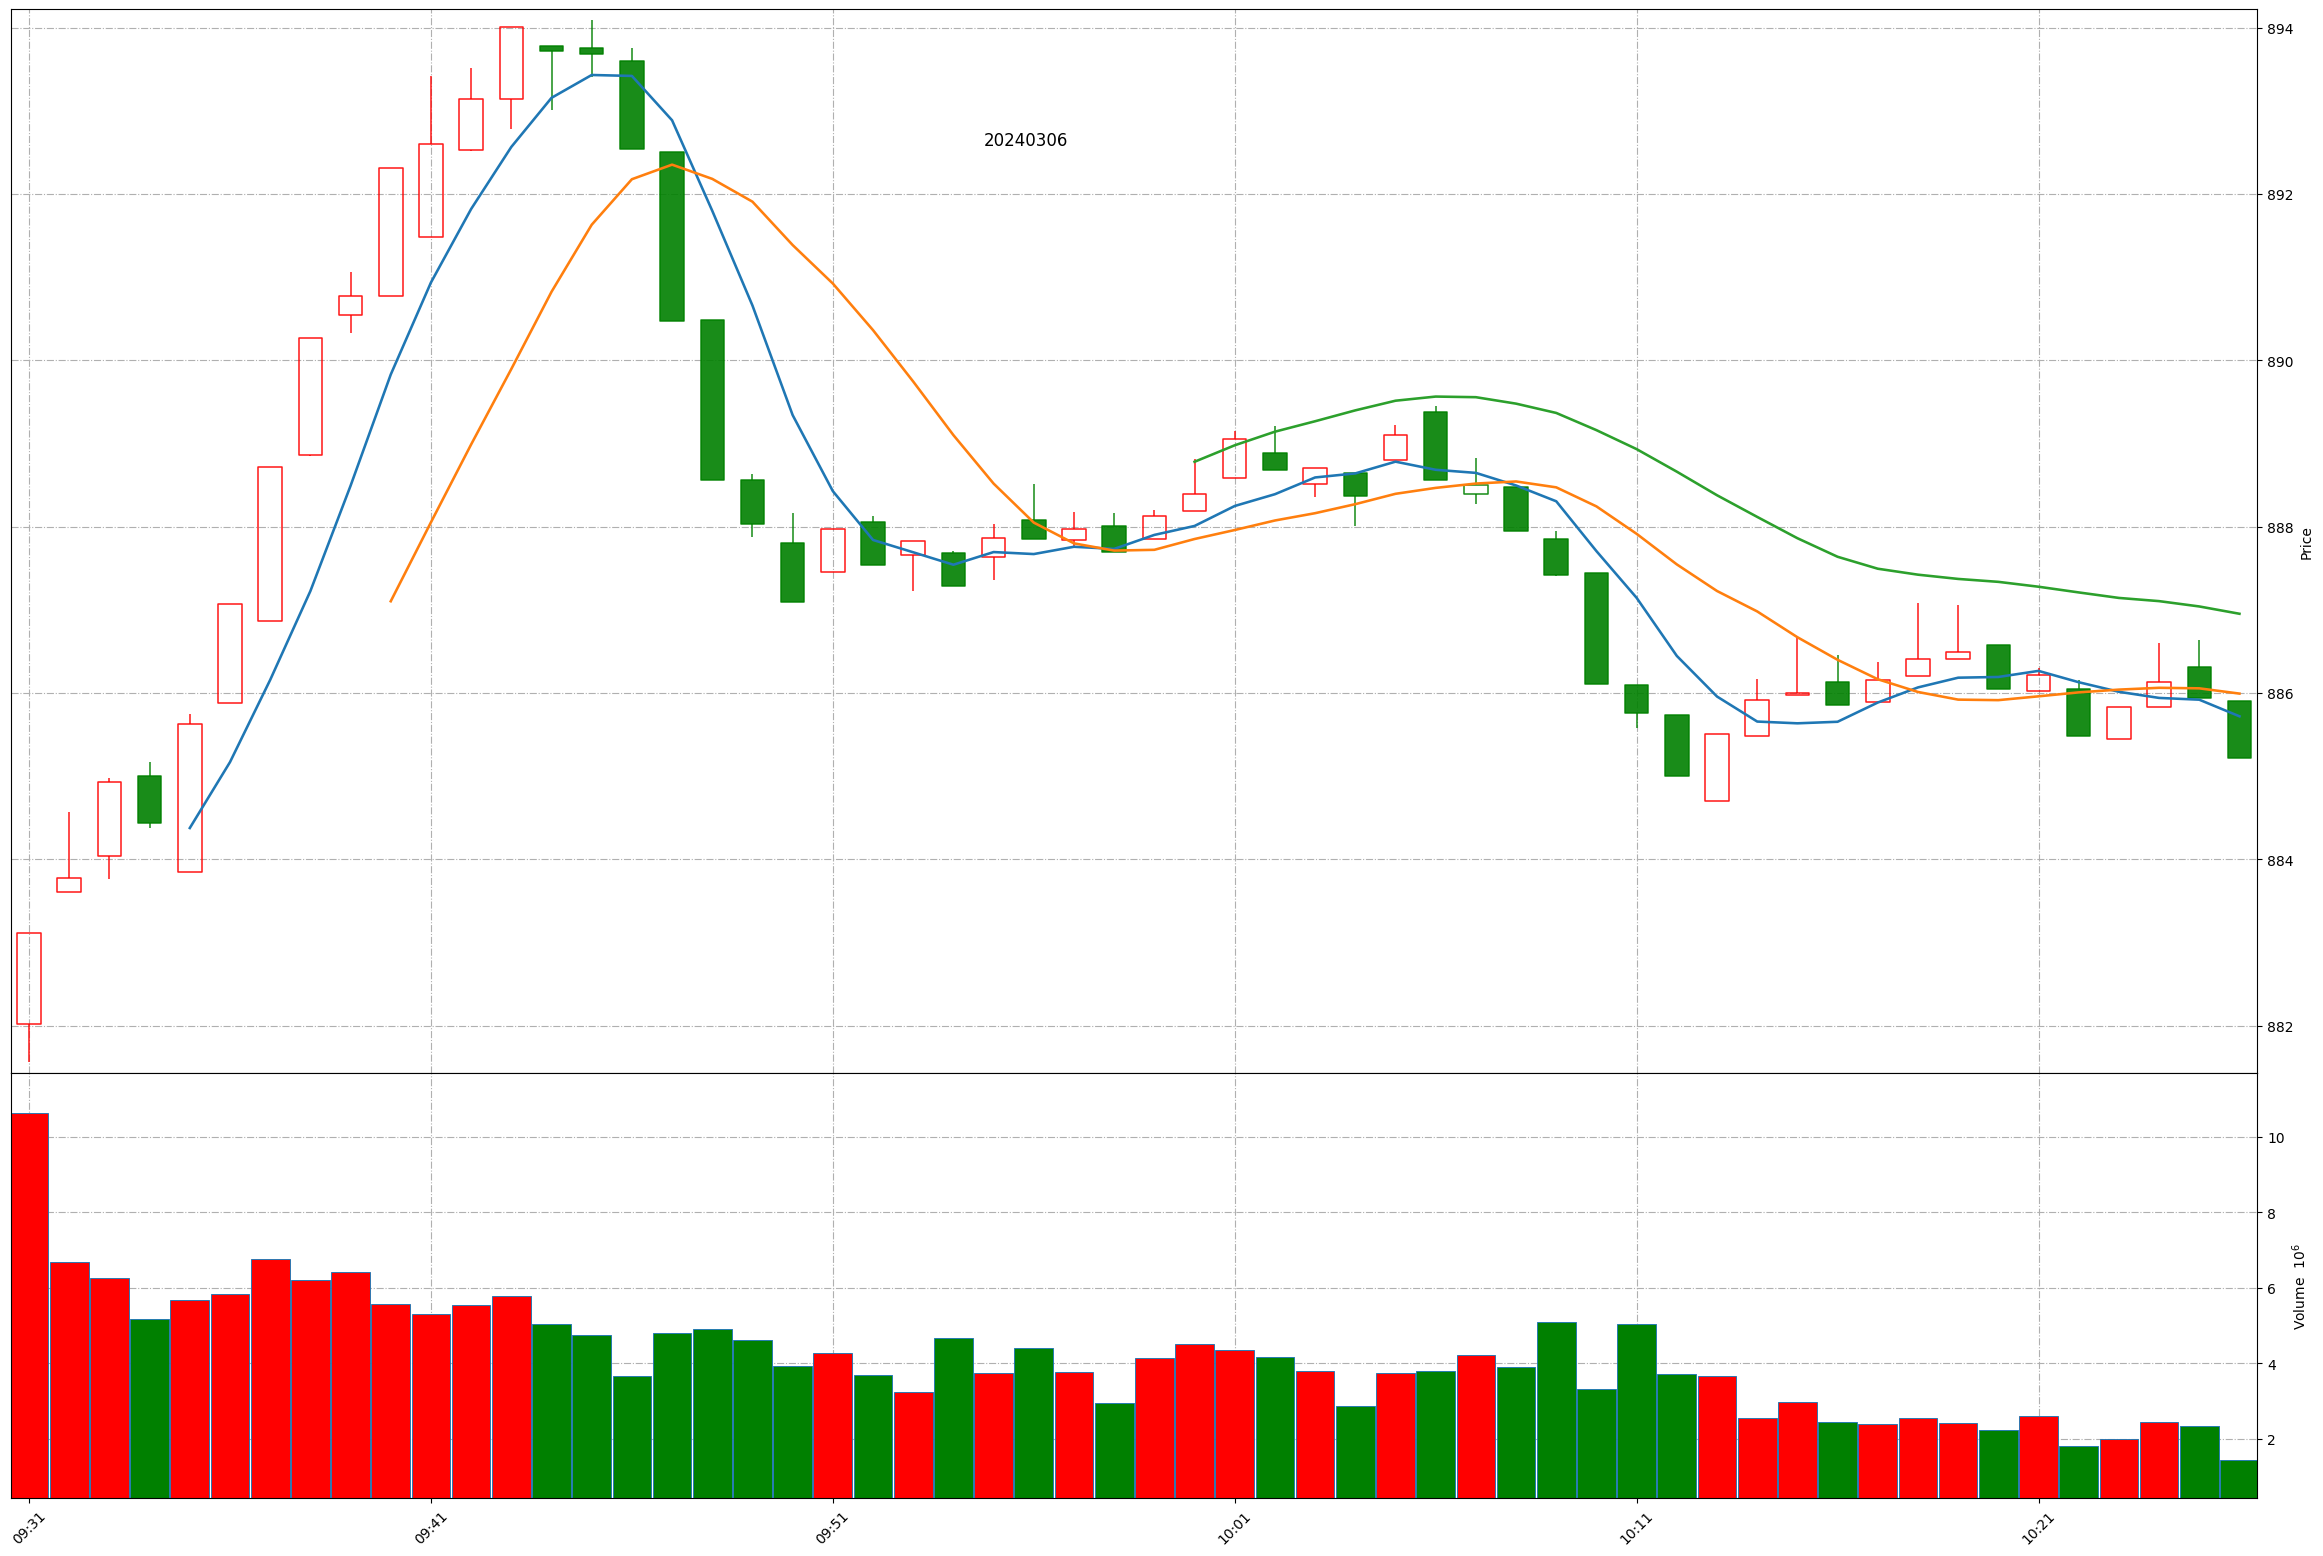
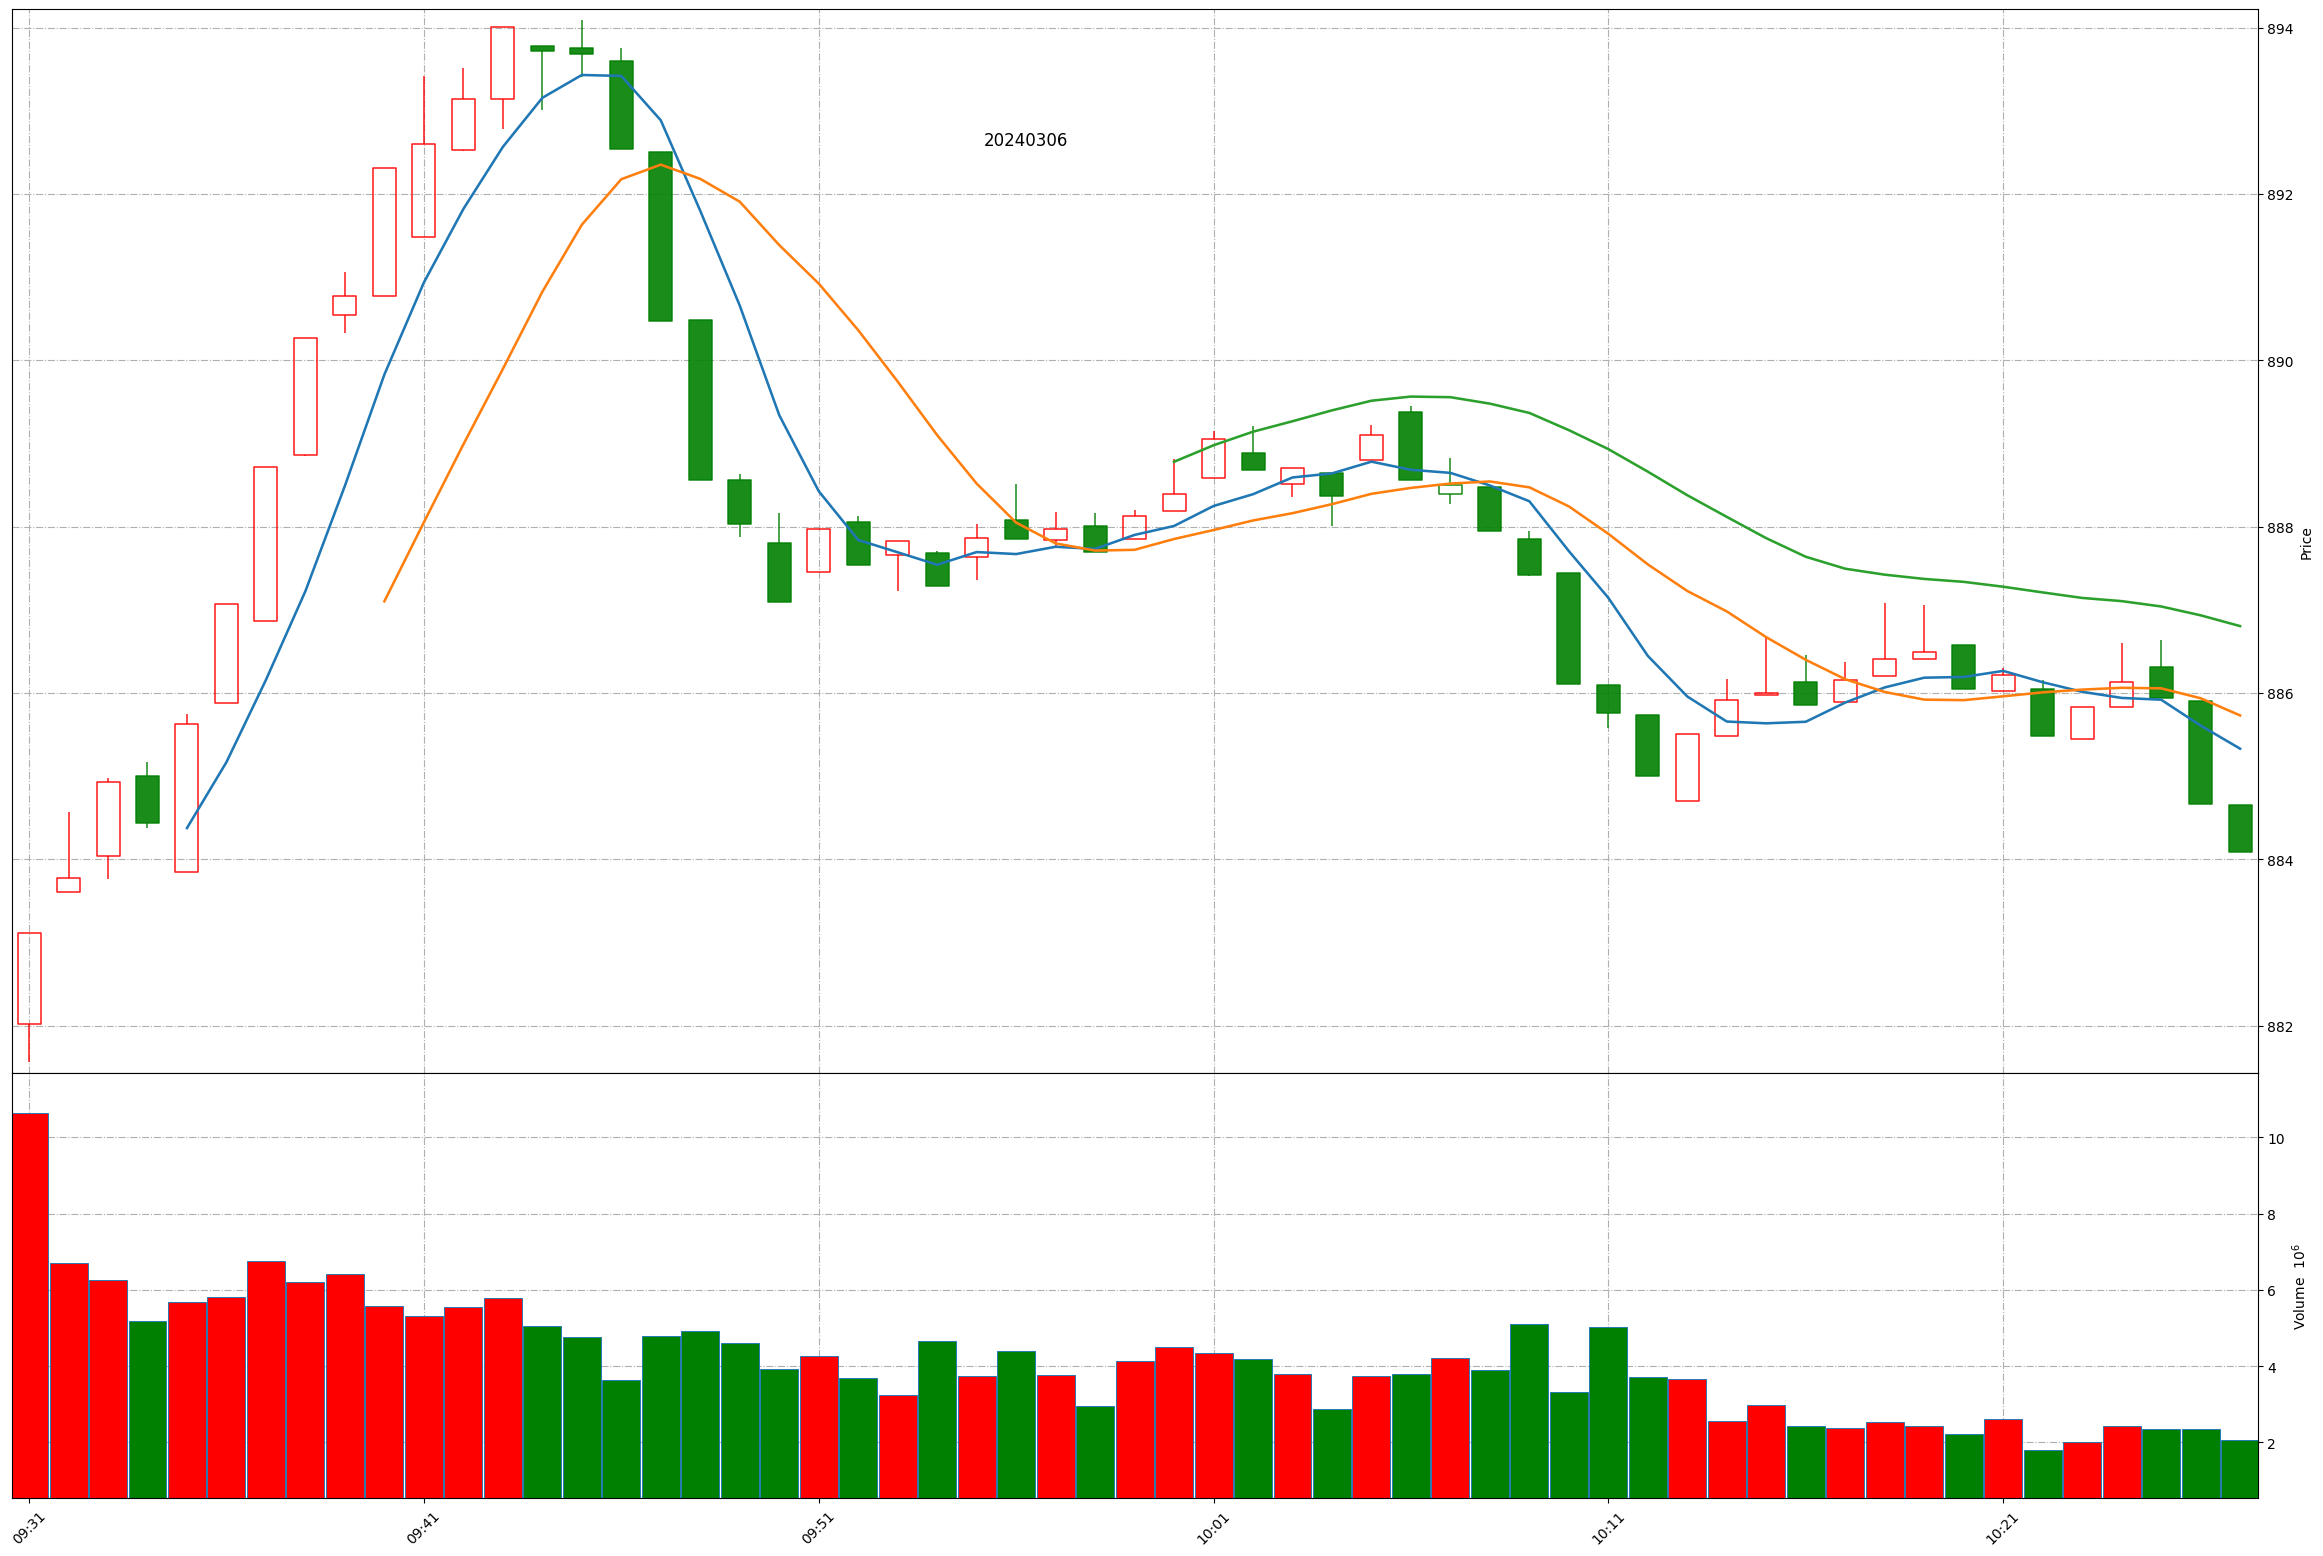
Github action update at 2024-03-06 10:27:12.

diff --git a/README.md b/README.md
@@ -1,11 +1,11 @@
 
 # Daily-A-share-market-quotes 每日 A 股指数（5min 更新）- 20240306
 
-### 上证指数 20240306 10:25
+### 上证指数 20240306 10:27
 ![](./fig/2024/3/20240306-sh000001.png)
 
-### 深证成指 20240306 10:25
+### 深证成指 20240306 10:27
 ![](./fig/2024/3/20240306-sz399001.png)
 
-### 北证50 20240306 10:25
+### 北证50 20240306 10:27
 ![](./fig/2024/3/20240306-bj899050.png)
